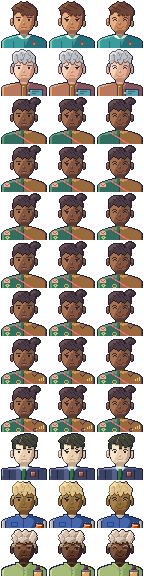
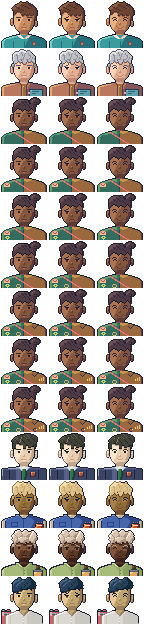
feat(art): approve Noor extra sets and portrait

diff --git a/art-direction/portraits/portrait_noor.py b/art-direction/portraits/portrait_noor.py
@@ -1,0 +1,81 @@
+"""Noor portraits, 48x48 logical px, three expressions.
+
+Status: Candidate, pending director review. Spec: PORTRAITS_SPEC.md, rules: PORTRAIT_RULES.md.
+Every key is a key of noor_sprites.PAL (hair ABCD blue-black, skin klmn light olive, shirt pqrs grey
+oatmeal, coral folder cdef edge `d`/`e`/`f`, sea-blue tabs ghjJ). No extra steps. The hair is the sprite's short
+swept crop: two crown tufts with a notch between them, light strand clusters from the upper left, a stepped
+hairline on the right, a left lock, and both ears showing. The shoulders are narrower than the template.
+Ruler:  0123456789012345 0123456789012345 0123456789012345  (the axis falls between 23|24)
+"""
+import os
+import sys
+
+HERE = os.path.dirname(os.path.abspath(__file__))
+sys.path.insert(0, HERE)
+sys.path.insert(0, os.path.join(HERE, "..", "cast"))
+sys.path.insert(0, os.path.join(HERE, "..", "gate1"))
+import noor_sprites as spr  # noqa: E402  (the world sprite owns the ramps)
+import portrait_template as T  # noqa: E402
+
+PAL = dict(spr.PAL)
+SLOTS = spr.SLOTS
+EXTRA = {}          # portrait-only keys {key: {"hex", "ramp", "why"}}; none
+BROW = "A"          # the hair's mid steps sit within 13 L* of the skin, so brows use the darkest hair step
+HAIR_SKIN_SEPARATED = True   # light hair (BCD) never touches l, m or n: a k shadow or an A tip separates them
+TILT = {"neutral": [], "concerned": [(0, 11, -1)], "pleased": [(0, 11, 1)]}   # the crown tilts; the fringe stays put
+STAMPS = {}
+SPRITE = spr
+
+BASE = T.parse([
+    "................ ................ ................",
+    "................ ..ooo......oooo. ................",
+    "................ .oDDCo....oDCCBo ................",
+    "...............o ooDDDCooooDCCCBB o...............",
+    "..............AD DDDDCCDDCCCCCCBB Bo..............",
+    ".............ADD DDCCCDDDCCCCBCCB BBo.............",
+    "............ADDD CCCDDCCCCCBCCCCB BBBo............",
+    "...........oADDC CCDDCCCCCCCBCCCB BBBo............",
+    "............ADCC CDDCCCCCBCCCCCCB BBBo............",
+    "............ADCC DDCCCCCCCBCCCCBB BBBBo...........",
+    "............oCCC DCCCCCCCBCCCCBBB BBBo............",
+    "............oCCC CCCCCBCCCCCBBBBB BBBo............",
+    "............oDCC CCCCBBCCCCBBAABB AABo............",
+    "............oCCC CCCCBBAAAAAAmmAA llo.............",
+    "............oCCC CCCBBBnnmmmmmmmA llo.............",
+    "............oBBB BBBnnnnnnmmmmmmm llo.............",
+    ".............oAA nAnnnnnmmmmmmmmm llo.............",
+    ".............onn nnnnnnmmmmmmmmmm llo.............",
+    "...........kkonn nnnnnnnmmmmmmmmm lloooo..........",
+    "..........knmonn nnnnnnmmmmmmmmmm llolmo..........",
+    "..........knmonn nnnnnnmmmmmmmmmm llolmo..........",
+    "..........knlonn nnnnnmmmmmmmmmml llommo..........",
+    "..........kmlonn nnnnnmmmmmmmmmml llolmo..........",
+    "..........kmmonn nnnnmmmmmmmmmmml llolmo..........",
+    "..........kmmknn nnnnmmmmmmmmmmml llomlo..........",
+    "...........oo.on nnnmmmmmmmmmmmll loomlo..........",
+    "..............on nnnmmmmmmmmmmmll lo.oo...........",
+    "...............k nnmmmmmmmmmmmlll o...............",
+    "...............k nnmmmmmmmmmmmmll o...............",
+    "................ kmmmmmmmmmmmmllo ................",
+    "................ .kmmmlllllllllo. ................",
+    "................ ..ollllllllllo.. ................",
+    "................ ...ollllllllo... ................",
+    "..ooo..ooo...... ...ollllllllo... ................",
+    ".ojJjooeeeo..... oooommmmmmlloooo ................",
+    ".oooooooooo...pp ssspmmmmmmllprqq oo..............",
+    ".offeeeeeedpppss ssrrpmmmmllprrqq qqooo...........",
+    ".offJJJJeppssssr rrrrrpmmllprrqqq qqqqqoo.........",
+    ".offhhhppsssrrrr rrrrrrpmlprqqqqq qqqqqqqoo.......",
+    ".offeepssrrrrrrr rrrrrrrpprrrqqqq qqqqqqqqqo......",
+    ".oeeepssrrqrrrrr rrrrrrrqrrrqqqqq qqqqqqqqqqo.....",
+    ".oeeepssrrqrrrrr rrrrrrrqrrrqqqqq qqqqqqqqqqo.....",
+    ".oeeepssrrqrrrrr rrrrrrrsrrrqqqqq qqqqqqqqqqo.....",
+    ".oeeepssrrqrrrrr rrrrrrrqrrrqqqqq qqqqqqqqqqo.....",
+    ".oeeepssrrqrrrrr rrrrrrrqrrrqqqqq qqqqqqqqqqo.....",
+    ".oeeepssrrqrrrrr rrrrrrrsrrrqqqqq qqqqqqqqqqo.....",
+    ".oeeepssrrqrrrrr rrrrrrrqrrrqqqqq qqqqqqqqqqo.....",
+    ".oeeepssrrqrrrrr rrrrrrrqrrrqqqqq qqqqqqqqqqp.....",
+])
+
+EXPRESSIONS = {e: T.compose(BASE, e, SLOTS["skin"], BROW, STAMPS.get(e, ()), TILT.get(e),
+                            SLOTS["hair"] if HAIR_SKIN_SEPARATED else None) for e in T.KIT}

diff --git a/art-direction/cast/noor_sprites.py b/art-direction/cast/noor_sprites.py
@@ -188,3 +188,59 @@ WALK = {
     "e": walk(E, SIDE_LEGS, "e"),
     "w": walk(W, [[r[::-1] for r in lg] for lg in SIDE_LEGS], "w"),
 }
+
+
+# --- Extra animation sets (tasks 8.1-8.2, candidate) ----------------------------------------------
+# Same format as the Engineer's (engineer_sprites.EXTRA): EXTRA[set][facing] = [frames]. Frames are built from
+# the raw (propless) grids above, with the head moved by eng.dip / eng.tilt and the props painted by
+# finish_x, so the stamp and folder never deform. IDLE and WALK above are never edited.
+dip, tilt = eng.dip, eng.tilt
+FACING_RAW = {"s": S, "n": N, "e": E, "w": W}
+# One pixel of heavy lid: a skin shadow `k` on the forehead row, directly above the sprite's eye pixel.
+LID = {"s": (6, 9), "e": (6, 10), "w": (6, 5)}
+
+
+def finish_x(frame, facing, dy=0, stamp_dy=0):
+    """finish() with the stamp offset separately from the body (a raise or a press)."""
+    for x, y, art, under in PROPS[facing]:
+        frame = paint(frame, x, y + dy + (stamp_dy if art in (STAMP_A, STAMP_B) else 0), art, under)
+    return frame
+
+
+def lid(frame, facing):
+    if facing not in LID:
+        return frame
+    r, c = LID[facing]
+    row = list(frame[r])
+    row[c] = "k"
+    return frame[:r] + ["".join(row)] + frame[r + 1:]
+
+
+def _extra():
+    raw = FACING_RAW
+    # ---- 8.1 interact: the stamp-down. Frame 0 raises the stamp, frame 1 presses it down as the body settles. ----
+    interact = {f: [finish_x(g, f, 0, -1), finish_x(lower(g), f, 1, 3)] for f, g in raw.items()}
+
+    # ---- 8.2 reaction (a): dry, unimpressed. The head tilts, then bows a notch under a heavy lid, and settles. ----
+    unimpressed = {}
+    for f, g in raw.items():
+        dx = -1 if f in ("s", "e") else 1
+        t = tilt(g, dx)
+        t2 = dip(lid(t, f))
+        unimpressed[f] = [finish_x(t, f), finish_x(t2, f), finish_x(lower(lid(tilt(g, dx), f)), f, 1)]
+
+    # ---- 8.2 reaction (b): quiet satisfaction. A small nod, a lift of the stamp, then settle. ----------------------
+    satisfied = {f: [finish_x(dip(g), f), finish_x(dip(g), f, 0, -1), finish_x(lower(g), f, 1)] for f, g in raw.items()}
+
+    # ---- posture: stooped over the desk to upright (cast table: straightens as the cabinets open). The base idle
+    # is the upright pose, so the last frame is idle 0 and the engine can hold it. ------------------------------------
+    posture = {f: [finish_x(lower(dip(g)), f, 1), finish_x(dip(g), f), finish_x(g, f)] for f, g in raw.items()}
+    return {"interact": interact, "react_unimpressed": unimpressed, "react_satisfied": satisfied,
+            "posture_upright": posture}
+
+
+EXTRA = _extra()
+EXTRA_MS = {"interact": 250, "react_unimpressed": 300, "react_satisfied": 300, "posture_upright": 300}
+EXTRA_ASYMMETRIC = {"interact"}
+EXTRA_MODE = {"interact": "once", "react_unimpressed": "once", "react_satisfied": "once",
+              "posture_upright": "once"}   # play, then hold the last frame

diff --git a/art-direction/portraits/build_portraits.py b/art-direction/portraits/build_portraits.py
@@ -22,11 +22,12 @@ import portrait_engineer  # noqa: E402
 import portrait_hal  # noqa: E402
 import portrait_ivo  # noqa: E402
 import portrait_mira  # noqa: E402
+import portrait_noor  # noqa: E402
 import portrait_vale  # noqa: E402
 import portrait_template as T  # noqa: E402
 
 CHARACTERS = [("engineer", portrait_engineer), ("ivo", portrait_ivo), ("mira", portrait_mira),
-              ("vale", portrait_vale), ("hal", portrait_hal), ("ada", portrait_ada)]
+              ("vale", portrait_vale), ("hal", portrait_hal), ("ada", portrait_ada), ("noor", portrait_noor)]
 EXPRESSIONS = list(T.KIT)
 ZOOM = 4          # the world's zoom on 1366x768; portraits are shown at the same factor
 BG = "#151C2B"
@@ -243,7 +244,7 @@ def build_sheet():
 def build_atlas():
     rows = [("engineer", portrait_engineer, 0), ("ivo", portrait_ivo, 0), ("mira", portrait_mira, 0)]
     rows += [(f"mira_patch{k}", portrait_mira, k) for k in range(1, 7)]
-    rows += [("vale", portrait_vale, 0), ("hal", portrait_hal, 0), ("ada", portrait_ada, 0)]
+    rows += [("vale", portrait_vale, 0), ("hal", portrait_hal, 0), ("ada", portrait_ada, 0), ("noor", portrait_noor, 0)]
     atlas = Image.new("RGBA", (48 * len(EXPRESSIONS), 48 * len(rows)), (0, 0, 0, 0))
     entries = {}
     for r, (name, mod, k) in enumerate(rows):

diff --git a/art-direction/portraits/check_portraits.py b/art-direction/portraits/check_portraits.py
@@ -18,6 +18,7 @@ import portrait_engineer  # noqa: E402
 import portrait_hal  # noqa: E402
 import portrait_ivo  # noqa: E402
 import portrait_mira  # noqa: E402
+import portrait_noor  # noqa: E402
 import portrait_vale  # noqa: E402
 import portrait_template as T  # noqa: E402
 
@@ -129,7 +130,7 @@ def diff(a, b):
     return sum(x != y for ra, rb in zip(a, b) for x, y in zip(ra, rb))
 
 
-for cname, mod in (("engineer", portrait_engineer), ("ivo", portrait_ivo), ("mira", portrait_mira), ("vale", portrait_vale), ("hal", portrait_hal), ("ada", portrait_ada)):
+for cname, mod in (("engineer", portrait_engineer), ("ivo", portrait_ivo), ("mira", portrait_mira), ("vale", portrait_vale), ("hal", portrait_hal), ("ada", portrait_ada), ("noor", portrait_noor)):
     # extras: recorded, at most one per ramp
     per_ramp = {}
     for key, info in mod.EXTRA.items():

diff --git a/art-direction/portraits/PORTRAITS_SPEC.md b/art-direction/portraits/PORTRAITS_SPEC.md
@@ -146,3 +146,29 @@ Coordinator review (to be completed by the director):
 - [ ] Hair does not read as a helmet or a cap
 - [ ] Eyes and brows read on her skin in all three expressions
 - [ ] Neutral, concerned and pleased are distinguishable at ×4
+
+## Noor (task 9.3, approved by the director 2026-10-02)
+
+**Status:** Candidate, pending director review. `portrait_noor.py` is built on the same template and checked by the same `check_portraits.py` (39 grids, 0 failures). `build_portraits.py` adds Noor to `portraits-sheet.png` (last row) and to `portraits-atlas.png`/`.json` (row `noor`, appended after the existing rows so no row moves). Sources: `design/characters/noor.md`, `cast/noor_sprites.py`, `cast/NOOR_SPEC.md`.
+
+| | Noor |
+| --- | --- |
+| Hair | Blue-black `ABCD`: the sprite's short swept crop with two crown tufts of different sizes and a notch between them, light `D` strand bands from the upper left, a stepped `A` hairline on the right with a dipping tip, a heavy left lock with uneven tips, and both ears showing |
+| Skin | `klmn` as the sprite (light olive) |
+| Clothing | Grey-oatmeal shirt `pqrs`: a narrow slope (full width on row 40, columns 5–42), a V neck flanked by the dark `p` neck line, a centre placket, sleeve seams in `q`, and a lit `s` left shoulder |
+| Accent | The coral folder from the sprite sits behind her left (screen-left) shoulder: two tabs (sea-blue `j`/`J` and coral `e`), a coral face with a pale `f` highlight and a sea-blue label |
+| Identity at 1× | Blue-black crop with tufts, pale shirt with a neck line, the folder behind the shoulder |
+
+### Noor decisions
+
+22. **Narrow shoulders.** The slope reaches full width on row 40 at columns 5–42, 6 px narrower than the template, because Noor is the narrowest person in the cast. The rules allow a per-character override (Ivo is wider, Vale is square).
+23. **Hair is a crop, not a mound.** The sprite's tufts, stepped hairline and left lock survive. The strand bands carry the "not a helmet" read, the notch between the crown tufts breaks the top silhouette, and the ears show. The tilt covers rows 0–11 only, so the fringe stays put (as Ivo's and Vale's).
+24. **Hair against skin.** The ramp gap is narrow (13 L*), so `HAIR_SKIN_SEPARATED` is on: skin touching light hair becomes `k`, and the right-hand hairline is the darkest step `A`. Brows use `A` so they do not take a `k` halo.
+25. **Stamp not shown.** The stamp sits at her left hip on the sprite, below the portrait crop. Only the folder hint fits at the shoulder. Its pale `f` face is limited to 8 px (the sprite's limit of 8 times 4 is 32).
+26. **Mapping to the brief.** noor.md: dry neutral is `neutral`, skeptical or defiant is `concerned`, quietly satisfied is `pleased`. The kit's closed eyes and smile read as warm but small on the narrow face, which suits her.
+27. **No extra palette steps.** Every key is a key of `noor_sprites.PAL` with the same hex; `EXTRA` is empty.
+
+Review: `check_portraits.py` ended at 39 portraits checked, 0 failures. The first run failed on `A` used as fill in the hairline tip (two stacked `A` rows); the tip's upper row is now `B`. Coordinator review (to be completed by the director):
+- [ ] Noor reads as the same person as the sprite at ×4 (hair, shirt, neck line, folder)
+- [ ] Hair does not read as a helmet
+- [ ] Neutral, concerned and pleased are distinguishable at ×4

diff --git a/art-direction/cast/NOOR_SPEC.md b/art-direction/cast/NOOR_SPEC.md
@@ -60,3 +60,23 @@ Coordinator review (the self-review of this candidate):
 - [x] Legible against the Records floor: 60–64 % of body pixels at 3:1 and a 9.7:1 outline. The shirt separates from the skin (min ΔL* 11.2).
 - [x] Hair is not a helmet: two tufts with a notch, light strand clusters, a stepped hairline, ears and a tapered nape
 - [x] Director: confirm the revised shirt, hair and props
+
+## Extra animation sets (approved by the director 2026-10-02)
+
+Tasks 8.1 (interact) and 8.2 (reactions), plus the posture change from noor.md. Same format as the Engineer, Ivo, Mira and Vale: `EXTRA`, `EXTRA_MS`, `EXTRA_MODE` and `EXTRA_ASYMMETRIC` in `noor_sprites.py`. Frames are the raw (propless) grids with the head moved by `eng.dip` or `eng.tilt`, and the stamp and folder painted afterwards by `finish_x`, so the props never deform. `IDLE`, `WALK` and `PAL` are unchanged (dumped and compared before and after: identical). `build_cast.py noor` adds `noor-extra.gif`, rows 8–19 of `noor-atlas.png`/`.json` and the extra frames on `noor-sheet.png`. `check_gate1.py noor_sprites`: 68 frames checked (24 base + 44 extra), 0 failures.
+
+| Set | Facings | Frames | Timing | Mode |
+| --- | --- | --- | --- | --- |
+| `interact` | S N E W | 2 | 250 ms | once, hold last |
+| `react_unimpressed` | S N E W | 3 | 300 ms | once, hold last |
+| `react_satisfied` | S N E W | 3 | 300 ms | once, hold last |
+| `posture_upright` | S N E W | 3 | 300 ms | once, hold last |
+
+### Extra decisions
+
+14. **Interact: the stamp-down (level 08).** Frame 0 raises the stamp 1 px (the head rows above it must stay hair and skin, so the raise is small); frame 1 settles the body 1 px and presses the stamp 3 px down, so the plate lands over the hip. The props use their idle art and side rules. `EXTRA_ASYMMETRIC` includes `interact`.
+15. **Reaction (a): dry, unimpressed.** The head tilts 1 px (toward the facing's left, away on W), then bows a notch under a heavy lid (one `k` pixel on the forehead row above the eye, S, E and W), then the figure settles 1 px. N only tilts and bows, because it has no face.
+16. **Reaction (b): quiet satisfaction.** A small nod (`dip`), the stamp lifts 1 px in a short flourish, and the figure settles. The last frame equals idle frame 1.
+17. **Posture: stooped to upright.** The base idle is the upright pose. The set starts stooped (head 2 px down, torso 1 px down), rises to a 1 px stoop, and ends on idle frame 0. The engine plays it once per cabinet step and holds the final frame (cast table "straightens as the cabinets open").
+18. **Held frames.** Every set ends on a valid resting pose (idle 0 or idle 1) for the engine to hold until the dialogue closes.
+19. **Open.** The "step out from behind the desk" move (level 07) is a scripted walk and needs no pixels of its own. The stamp mark (rejected to accepted) is a world prop, not a sprite change.

diff --git a/README.md b/README.md
@@ -53,6 +53,7 @@ When documents disagree, the owner below wins. Fix the other document instead of
 - **Noor** idle ×4 and walk ×4 **approved by the director 2026-10-02** (`art-direction/cast/NOOR_SPEC.md`). Noor wears a pale grey-oatmeal linen shirt (at least 11 ΔL* from the skin it touches) and sea-blue trousers. The props are a cherry-wood stamp (the darkest object, a T silhouette with a dark plate) and a coral-edged file folder (the lightest object). Both hands are full, so the walk has no arm swing. Revised once: the shirt was moved off her skin values, the blue-black crop got tufts and strands, and the two props were given different values and silhouettes.
 - **Hal's extra sets and portrait approved by the director 2026-10-02.** Interact lifts a steel tool toward a panel. The reactions are puzzled (head tilt, open glove) and anxious (head sinks into the shoulders); the scratch was dropped because a glove beside the head breaks the head-key rule. The portrait brows are ink, because his darkest hair step matches his skin.
 - **Ada's extra sets and portrait approved by the director 2026-10-02.** In interact she lifts the lantern outward. Her reactions are a nod and explaining. The baked lantern rim follows the lantern when it leaves her body. In the portrait, lit skin bands on the brow bones, nose bridge and cheekbones seat the eyes. The face carries no lantern rim, because at ×8 it read as an earring.
+- **Noor's extra sets and portrait approved by the director 2026-10-02.** Interact is the stamp-down. The reactions are unimpressed and satisfied, and posture_upright (stooped to upright) is its own set. The portrait shows the coral folder at the shoulder and has narrower shoulders. **This completes tasks 8.1, 8.2 and 9.3:** all seven recurring characters now have interact, two reactions and three portrait expressions.
 
 ## Open decisions
 

diff --git a/openspec/changes/complete-art-production/tasks.md b/openspec/changes/complete-art-production/tasks.md
@@ -47,8 +47,8 @@
 
 ## 8. Extra animation sets
 
-- [ ] 8.1 Interact pose for every recurring character; verify the checker and the sheet
-- [ ] 8.2 Two reusable reactions per recurring character (Engineer: concerned and satisfied); verify the checker and the sheet
+- [x] 8.1 Interact pose for every recurring character; verify the checker and the sheet
+- [x] 8.2 Two reusable reactions per recurring character (Engineer: concerned and satisfied); verify the checker and the sheet
 - [x] 8.3 Ivo scripted wave, nod, unscripted laugh and Level 03 tablet flash; verify a sheet and GIFs
 - [x] 8.4 Engineer quick turn; verify GIF timing
 - [x] 8.5 Mira's six patch designs as 1–2 px states; verify that each is distinct at ×4 and in her portrait
@@ -57,7 +57,7 @@
 
 - [x] 9.1 48×48 portrait template and rules; verify a template sheet
 - [x] 9.2 Engineer, Ivo and Mira portraits, three expressions each; verify their ramps match the world sprites
-- [ ] 9.3 Noor, Hal, Ada and Vale portraits; verify the same
+- [x] 9.3 Noor, Hal, Ada and Vale portraits; verify the same
 
 ## 10. UI presentation
 

diff --git a/art-direction/PRODUCTION_STATUS.md b/art-direction/PRODUCTION_STATUS.md
@@ -44,6 +44,7 @@ This is the living handoff file. Any agent continuing the art work should read t
 | Noor: idle ×4, walk ×4 | [cast/NOOR_SPEC.md](cast/NOOR_SPEC.md) | cast/noor_sprites.py | 2026-10-02 (director) |
 | Hal: interact, puzzled and anxious reactions; 48×48 portrait | cast/HAL_SPEC.md (Extra sets), portraits/PORTRAITS_SPEC.md (Hal) | EXTRA in cast/hal_sprites.py, portraits/portrait_hal.py | 2026-10-02 (director) |
 | Ada: interact (lantern lift), nod and explaining reactions; 48×48 portrait | cast/ADA_SPEC.md (Extra sets), portraits/PORTRAITS_SPEC.md (Ada) | EXTRA in cast/ada_sprites.py, portraits/portrait_ada.py | 2026-10-02 (director) |
+| Noor: stamp-down interact, unimpressed and satisfied reactions, posture_upright; 48×48 portrait | cast/NOOR_SPEC.md (Extra sets), portraits/PORTRAITS_SPEC.md (Noor) | EXTRA in cast/noor_sprites.py, portraits/portrait_noor.py | 2026-10-02 (director) |
 
 ## Plan
 
